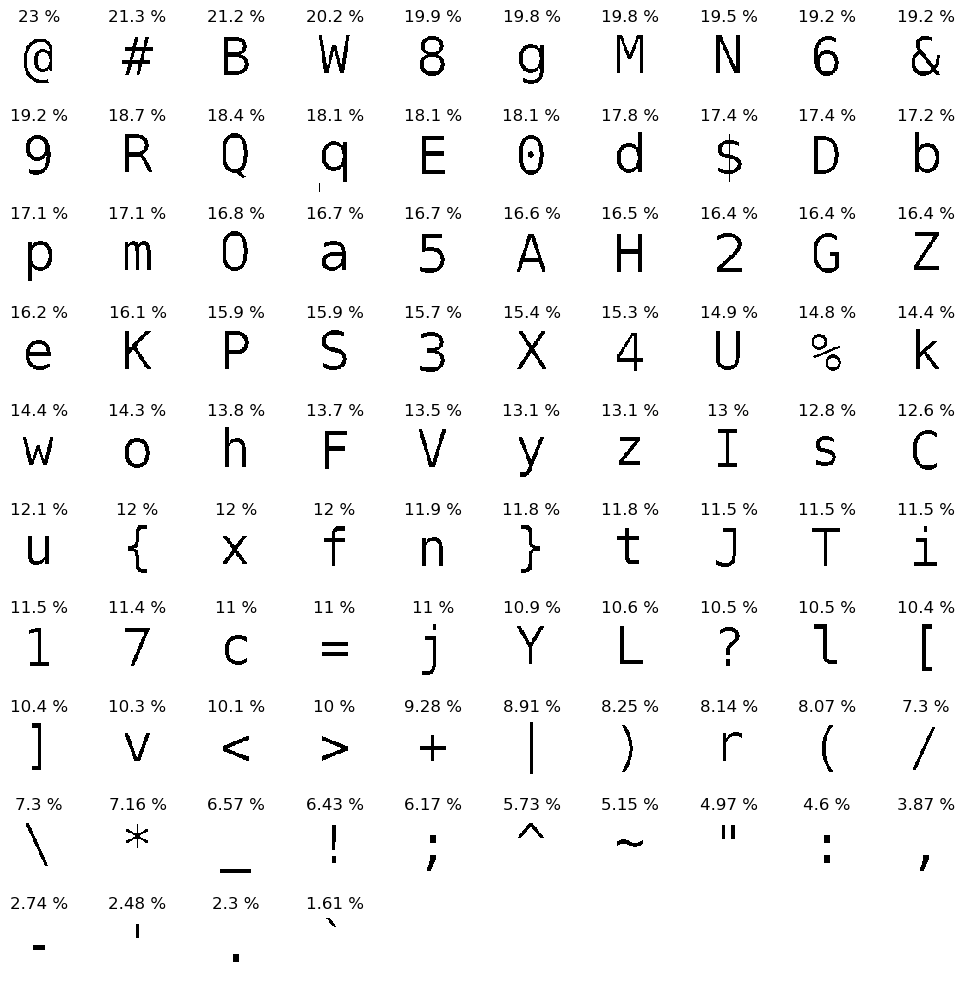
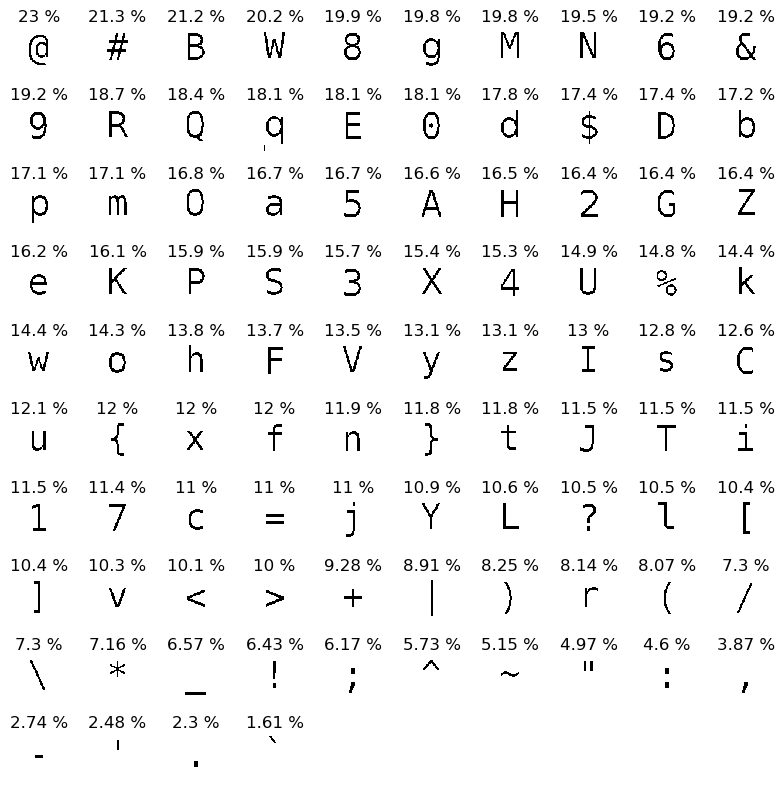
Updates from today's class

diff --git a/src/asciiart/Drawing.java b/src/asciiart/Drawing.java
@@ -23,7 +23,7 @@ public class Drawing {
         pic.show();
     }
     
-    public static void main(String[] args) {
+    public static void videoExample() {
         // Initialize the red, green, and blue channels
         int[][] r = new int[400][500];
         int[][] g = new int[400][500];
@@ -52,6 +52,55 @@ public class Drawing {
             b[index][index] = value;
             index++;
         }
+        showPic(r, g, b);
+    }
+    
+    /**
+     * 
+     * @param r 2D array of red components in each pixel
+     * @param g 2D array of green components in each pixel
+     * @param b 2D array of blue components in each pixel
+     * @param cx Center of the circle's x coordinate
+     * @param cy Center of the circle's y coordinate
+     * @param radius Radius of the circle
+     * 
+     * (x-cx)^2 + (y-cy)^2 <= radius^2
+     * 
+     */
+    public static void drawCircle(int[][] r, int[][] g, int[][] b,
+                                  double cx, double cy, double radius) {
+        // TODO: Write a system of loops that draws the appropriate
+        // circle in magenta
+        
+        // Loop through every pixel, and check if that pixel is within
+        // the circle
+        
+        // Loop through the rows first
+        for (int i = 0; i < r.length; i++) {
+            // For each row, loop each column
+            for (int j = 0; j < r[i].length; j++) {
+                double x = j;
+                double y = i;
+                double distSqr = Math.pow(x-cx, 2) + Math.pow(y-cy, 2);
+                // Check to see if it's in the circle
+                if (distSqr <= radius*radius) {
+                    // We're in the circle!
+                    r[i][j] = 0xFF;
+                    b[i][j] = 0xFF;
+                }
+            }
+        }
+        
+    }
+    
+    public static void main(String[] args) {
+        // Initialize the red, green, and blue channels
+        int[][] r = new int[400][500];
+        int[][] g = new int[400][500];
+        int[][] b = new int[400][500];
+        drawCircle(r, g, b, 300, 100, 50);
+        drawCircle(r, g, b, 100, 200, 20);
+        drawCircle(r, g, b, 300, 300, 100);
         showPic(r, g, b);
     }
 }

diff --git a/src/asciiart/Array2DBasics.java b/src/asciiart/Array2DBasics.java
@@ -16,7 +16,10 @@ public class Array2DBasics {
      * @param showCommas Whether or not to display the commas
      */
     public static void printArray(double[][] x, boolean showCommas) {
-        for (int i = 0; i < x.length; i++) {
+        // Loops through rows
+        for (int i = 0; i < x.length; i++) {    
+            // For each row, I loop through all of the elements of
+            // that row (all of the columns)
             for (int j = 0; j < x[i].length; j++) {
                 System.out.print(x[i][j]);
                 if (showCommas && j < x[i].length - 1) {
@@ -32,6 +35,7 @@ public class Array2DBasics {
     
     public static void main(String[] args) {
         double[][] x = new double[20][15];
+        
         for (int i = 0; i < 5; i++) {
             for (int j = 0; j < 6; j++) {
                 x[i][j] = 1;

diff --git a/src/asciiart/ASCIIArt.java b/src/asciiart/ASCIIArt.java
@@ -36,6 +36,7 @@ public class ASCIIArt {
     public static void main(String[] args) {
         Picture picture = new Picture("Examples/ursinus.png");
         double[][] image = getGrayscaleArray(picture);
+        System.out.println(image[10][4]);
         // TODO: Make ASCII art.  You should define at least one method
         // that takes in the image array, as well as the number of 
         // rows and columns in each block

diff --git a/GrayscaleDict/sortByGrayscale.py b/GrayscaleDict/sortByGrayscale.py
@@ -13,7 +13,7 @@ X = 0.2125*X[:, :, 0] + 0.7154*X[:, :, 1] + 0.0721*X[:, :, 2]
 grayscale = []
 chars = []
 b = 33
-plt.figure(figsize=(10, 10))
+plt.figure(figsize=(8, 8))
 for c in range(94):
     ch = chr(b)
     chars.append(ch)
